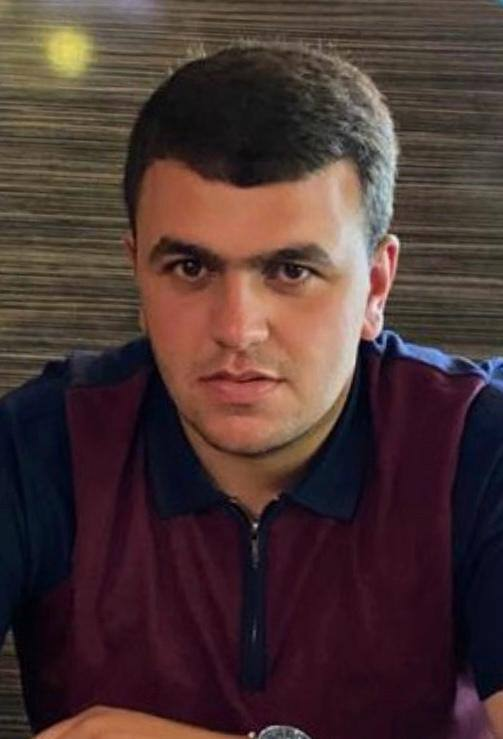
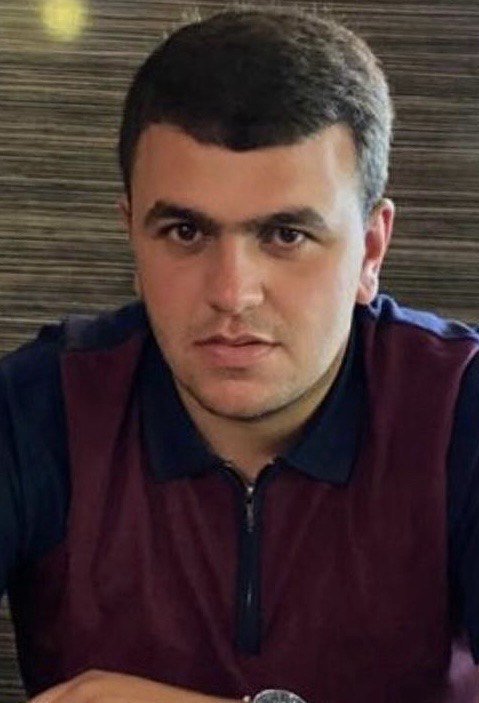
update

diff --git a/index.html b/index.html
@@ -92,6 +92,7 @@
                                     <p>Բարև, ես Էմին Չախոյանն եմ։ Ունեմ բիզնեսի կառավարման փորձ,հաղորդակցվելու և թիմում արդյունավետ աշխատելու հմտություններ,
                                         աշխատել եմ մարքեթինգի, վաճառքի և շուկայի զարգացման ոլորտներում։
                                         Տիրապետում եմ համակարգչային ծրագրերին և կարողանում եմ աշխատել ճնշման տակ։
+                                        Ունեմ 10 տարվա անվտանգ վարելու փորձ, տիրապետում եմ B և C կարգի վարորդական վկայականի։
                                     </p>
                                 </div>
                             </div>

diff --git a/css/main.css b/css/main.css
@@ -3578,7 +3578,7 @@ Created using IcoMoon - icomoon.io
   margin-top: 35px; }
 
 .profile-page .page-header {
-  min-height: 550px; }
+  min-height: 500px; }
 
 .profile-page .profile-container {
   color: #FFFFFF; }
@@ -5155,16 +5155,18 @@ Created using IcoMoon - icomoon.io
   left: 0;
   opacity: 0.0;
   z-index: 99; }
-.container > .content-center{
-  display: flex;
-  justify-content: space-between;
-}
+/*.container > .content-center{*/
+/*  display: flex;*/
+/*  justify-content: start;*/
+/*  align-items: center;*/
+/*}*/
 .cc-profile-image img {
   position: relative;
   border-radius: 20%;
-  width: 180px;
+  width: 200px;
+  height: 200px;
   object-fit: cover;
-
+  object-position: top center;
   padding: 0;
   margin: 0;
   border: 15px solid transparent;

diff --git a/README.md b/README.md
@@ -1,1 +1,28 @@
-# eminchakhoyan.github.io
+Directory Structure
+-------------------
+css\              - Stylesheets CSS files for the template.
+images\           - Images used in template.
+scripts\          - JavaScript used in the template.
+styles\           - SCSS source files for stylesheets CSS. Available in Purchased versions only.
+favicon.ico       - Favicon placeholder provided for the template.
+index.html        - Main HTML page to open the template in browser.
+*.html            - Additional HTML pages (if any).
+LICENSE-*.txt     - License file as per your downloaded variant.
+
+How to Edit the template
+------------------------
+
+1. Editing Content in template
+
+To edit the content open the corresponding *.html files and open them
+in an editor such as VSCode or Notepad++.
+Search for the content you want to change and edit it to the text you want.
+Save the file and reopen HTML file in browser to see the changes.
+
+2. Editing Styles of template
+
+The main style is present in css\main.css which you can edit.
+You must know how to edit CSS files to do this.
+If you have purchased any of the premium version then you will also get
+SCSS source files which generates all the styles of the template.
+You can use these SCSS files to make your changes and regenerate CSS.
